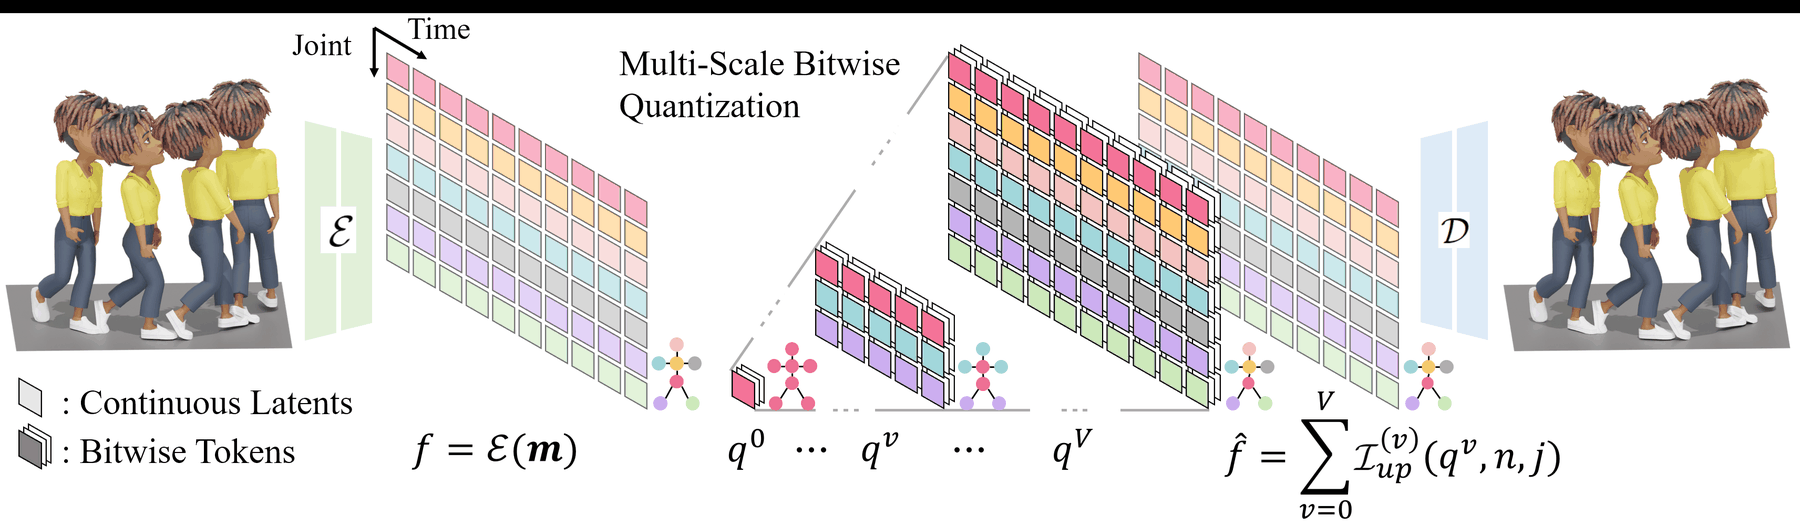
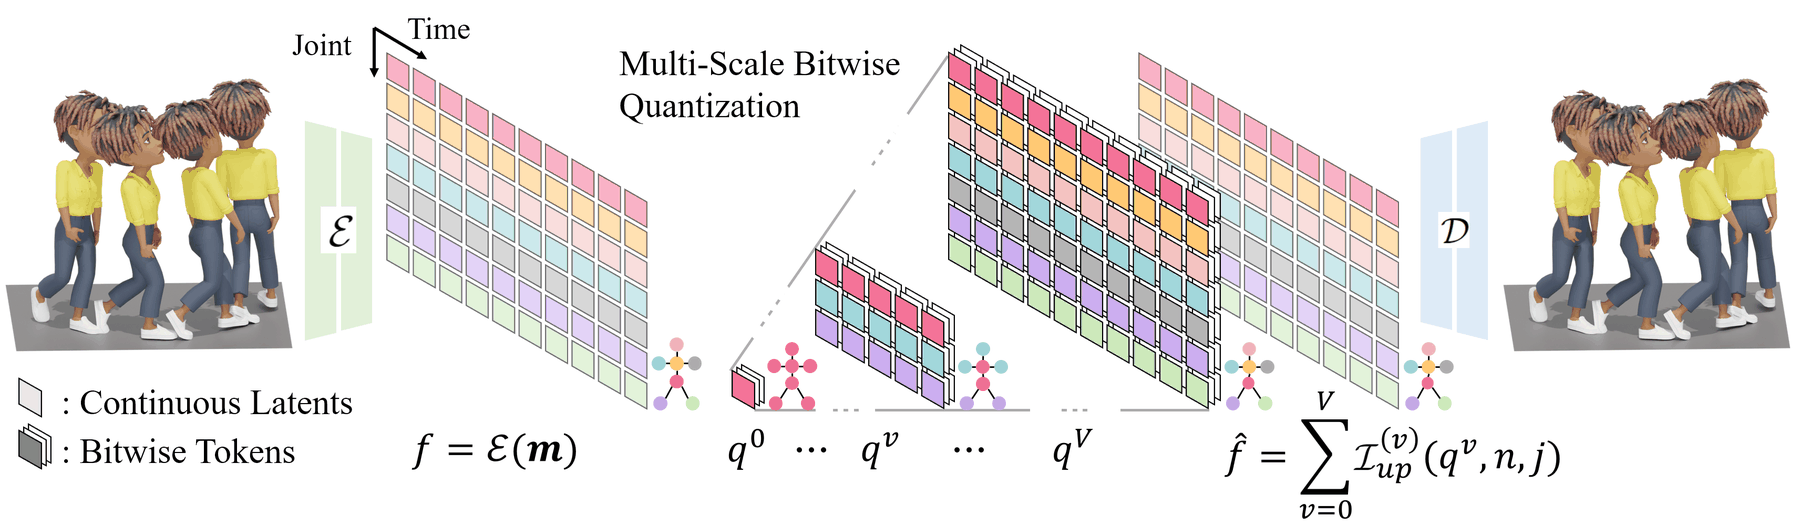
make it mobile friendly

Changed region(s): [[0.0, 0.0, 1.0, 0.0305]]

diff --git a/ScaleMoGen/index.html b/ScaleMoGen/index.html
@@ -137,6 +137,14 @@
       .video-card { padding: 1rem !important; border-radius: 10px; }
       .description-box { padding: 1rem !important; }
 
+      /* Section-level explanatory paragraphs — compact on mobile */
+      .container p.is-size-5,
+      #token-map p[style*="font-size"] {
+        font-size: 0.88rem !important;
+        line-height: 1.6 !important;
+      }
+      #citation > .container > p { font-size: 0.85rem !important; }
+
       /* Unify motion descriptions across 1.2 / 1.3 / 2.2 on mobile.
          1.2 uses .is-size-7 (0.75rem) — match 1.3 and 2.2 to it. */
       .description-box .is-size-5,
@@ -162,6 +170,19 @@
     /* Global overflow safety */
     body { overflow-x: hidden; }
     img, video { max-width: 100%; height: auto; }
+
+    /* Tighten explanatory paragraphs across the page */
+    .container p.is-size-5 {
+      font-size: 1rem !important;
+      line-height: 1.65 !important;
+    }
+    /* Section 3 token-map paragraphs use inline 1.2rem */
+    #token-map p[style*="font-size"] {
+      font-size: 1rem !important;
+      line-height: 1.65 !important;
+    }
+    /* Citation intro paragraph */
+    #citation > .container > p { font-size: 0.95rem !important; }
 
     /* BibTeX block */
     .bibtex-wrap {

diff --git a/EgoForce/index.html b/EgoForce/index.html
@@ -118,6 +118,13 @@
       .author-list { font-size: 1.15rem !important; line-height: 1.5; }
       .affiliation-list { font-size: 0.95rem !important; }
 
+      /* Section-level explanatory paragraphs — compact on mobile */
+      .main-content p.is-size-5,
+      .main-content p.is-size-5-tablet {
+        font-size: 0.88rem !important;
+        line-height: 1.6 !important;
+      }
+
       /* Math overflow protection */
       mjx-container { max-width: 100%; overflow-x: auto; overflow-y: hidden; }
 
@@ -129,6 +136,12 @@
     /* Global horizontal-overflow safety */
     img, video { max-width: 100%; height: auto; }
     table { max-width: 100%; }
+
+    /* Tighten explanatory paragraphs across the page (desktop too) */
+    .main-content p.is-size-5 {
+      font-size: 1rem !important;
+      line-height: 1.65 !important;
+    }
   </style>
 </head>
 